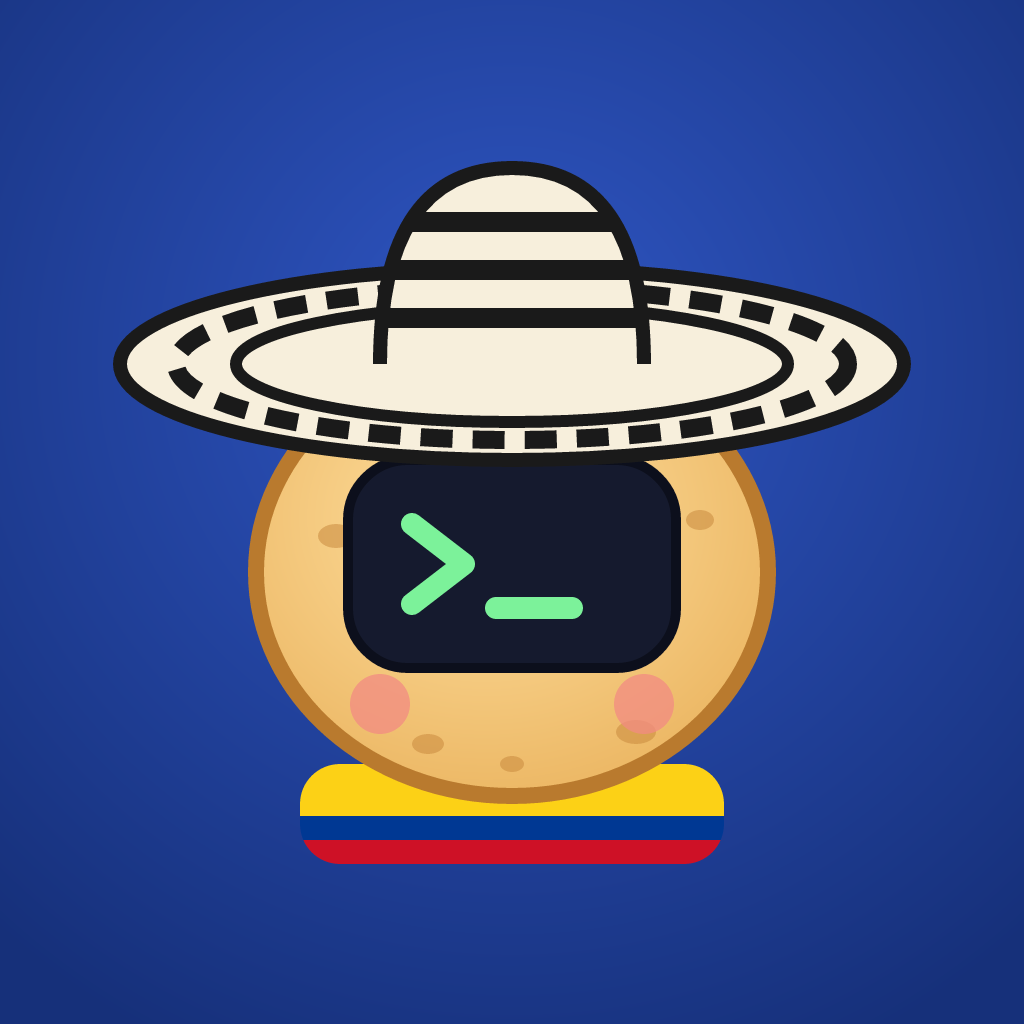
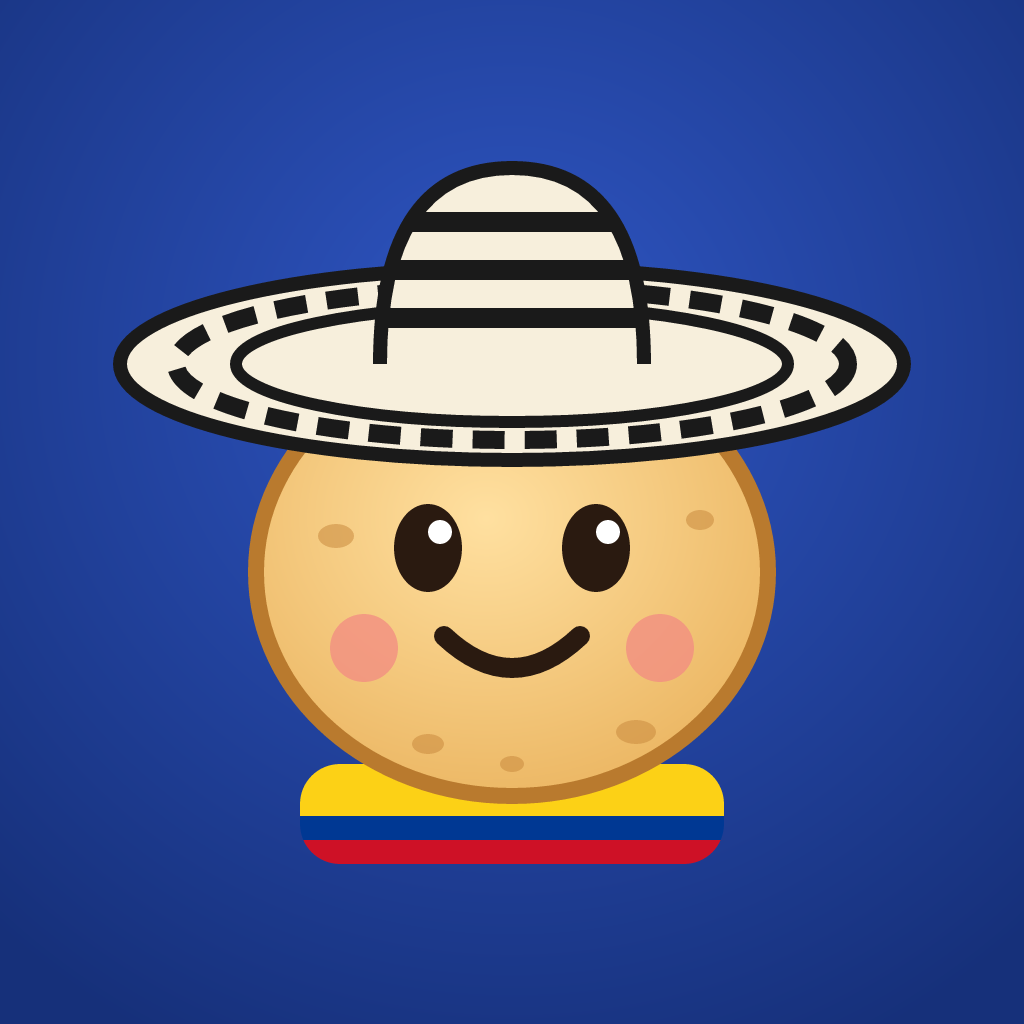
Give parcerito a friendly face instead of a terminal screen

Changed region(s): [[0.3125, 0.4375, 0.6875, 0.7188]]

diff --git a/README.md b/README.md
@@ -1,5 +1,5 @@
 <p align="center">
-  <img src="assets/parcerito-1024.png" width="160" alt="Parcerito: an arepa bot wearing a sombrero vueltiao" />
+  <img src="assets/parcerito-1024.png" width="160" alt="Parcerito: a smiling arepa wearing a sombrero vueltiao" />
 </p>
 
 <h1 align="center">parcerito</h1>
